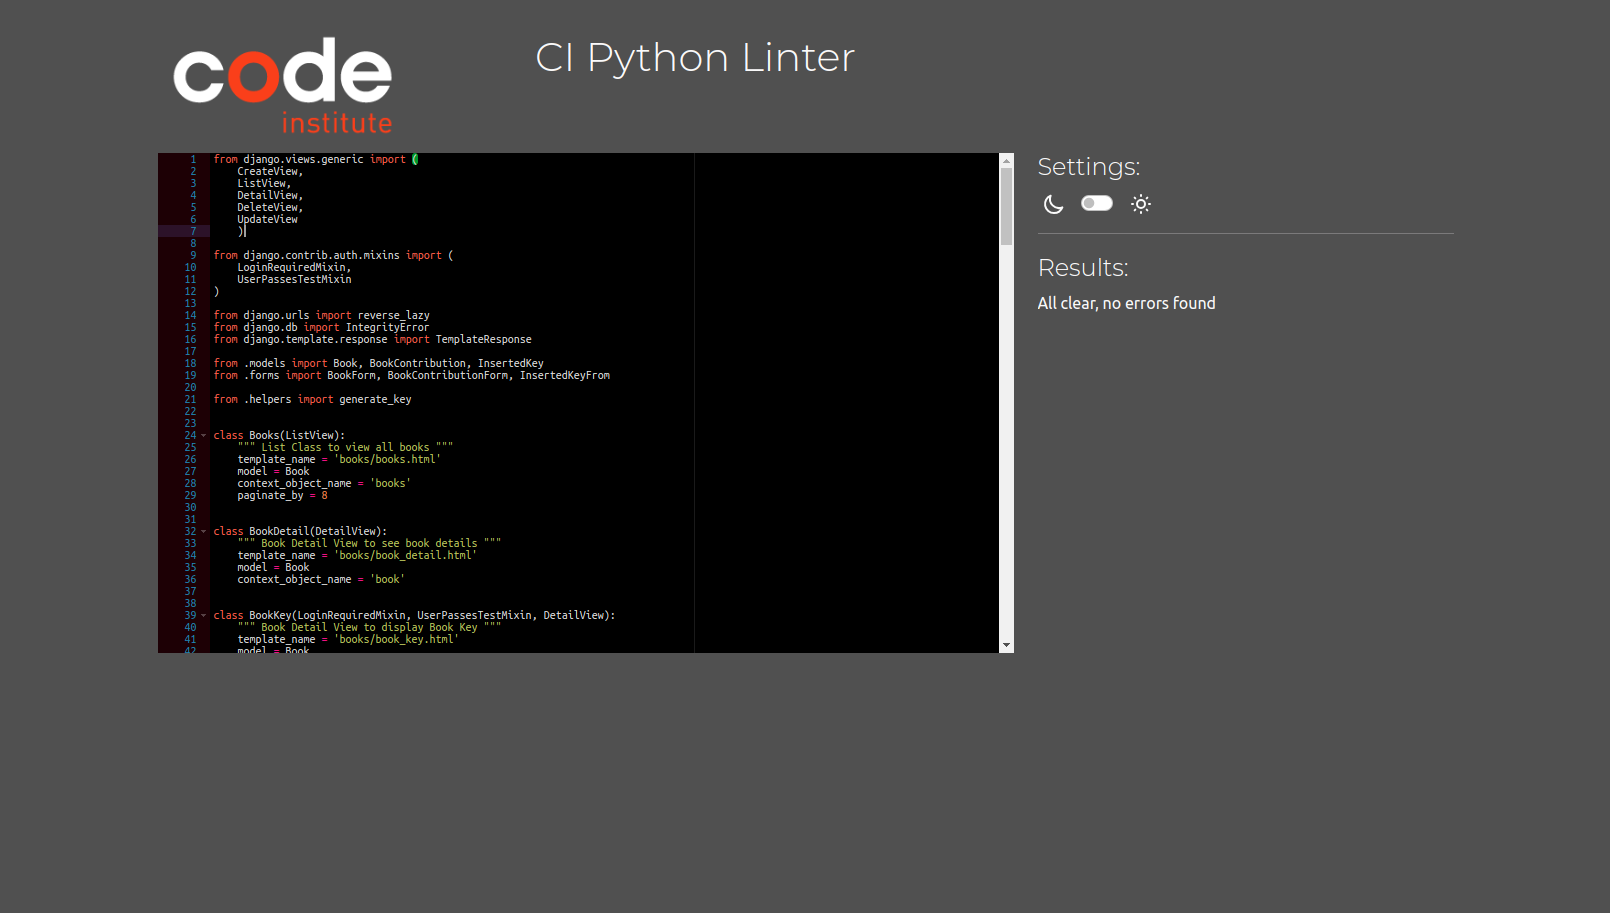
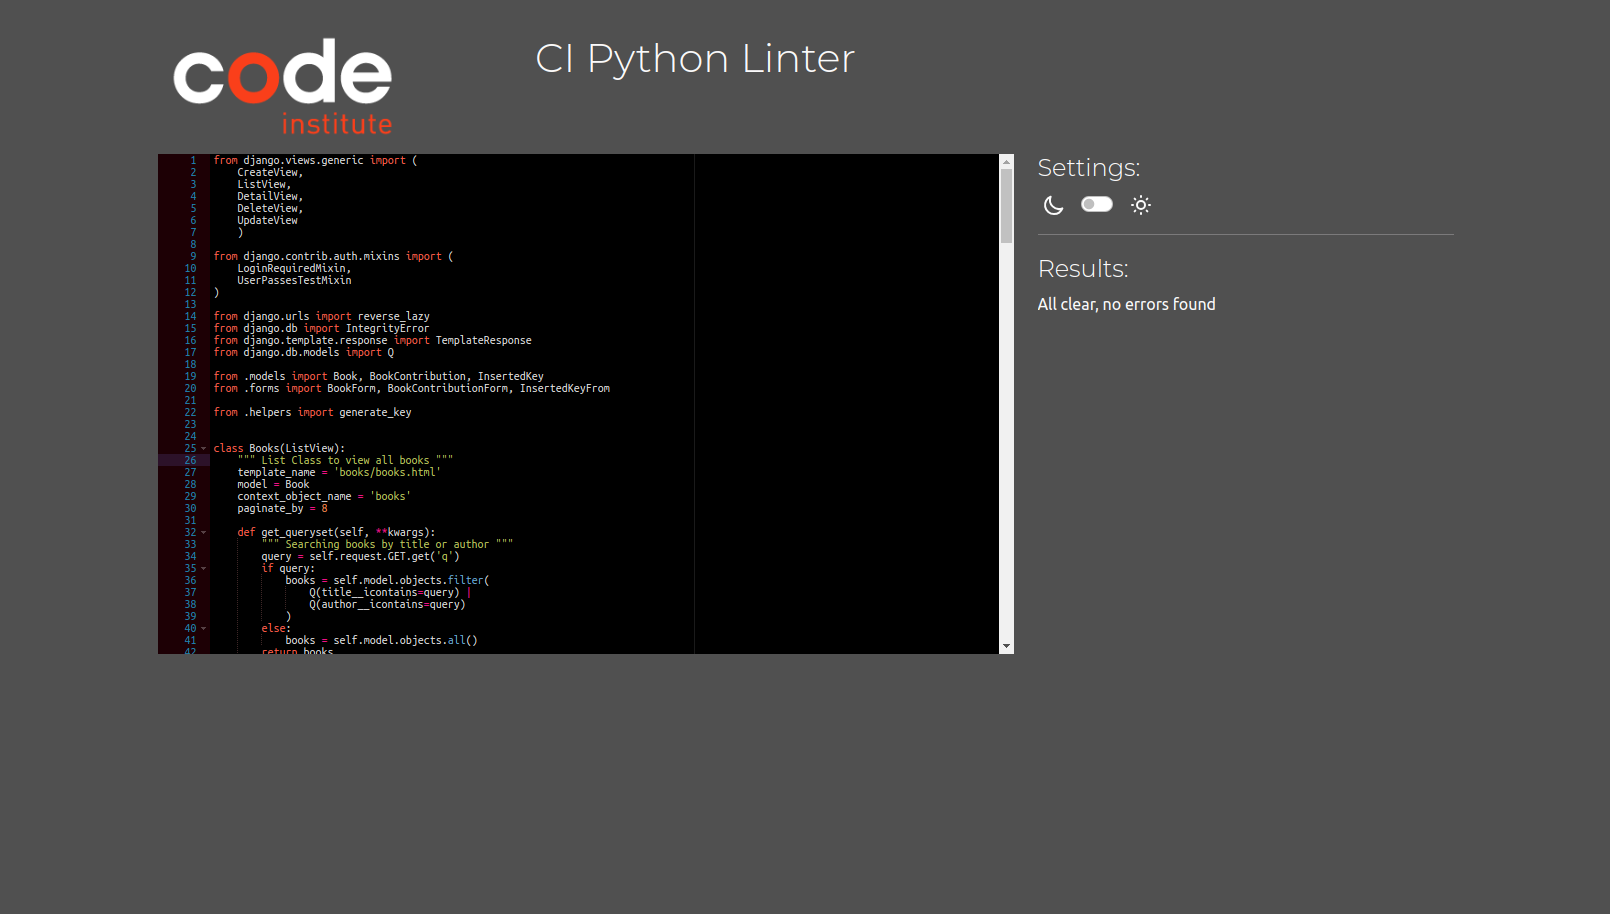
feat: implement a search field in Books Page and validate the code with pep8ci

diff --git a/books/templates/books/books.html b/books/templates/books/books.html
@@ -6,6 +6,22 @@
 {% block content %}
 
 <h1 class="text-center p-5">Books</h1>
+<div class="search__container">
+    <!-- search recipes form -->
+    <form class="d-flex flex-column flex-sm-row align-items-center gap-2" role="search" action="{% url 'books' %}" method="GET">
+        <div class="d-flex flex-column flex-sm-row align-items-center gap-2">
+            <label for="search-input">Search</label>
+            <input class="search__input" type="Search" id="search-input" name="q" aria-label="Search by author or title" placeholder="Books by Title or Author">
+
+        </div>
+        <button class="btn book__button hero__button--primary" type="submit">
+            <i class="fa-solid fa-magnifying-glass"> </i>
+            Search
+        </button>
+    </form>
+    <span class="search-chef"></span>
+</div>
+
 <div class="books-container">
     {% for book in books %}
     {% if request.user.is_authenticated %}

diff --git a/static/css/base.css b/static/css/base.css
@@ -49,6 +49,7 @@ body{
 
 h1, h2, h3, h4 {
     font-family: var(--title-font);
+    margin: 0;
 }
 
 main{
@@ -348,6 +349,18 @@ a.nav-link.active{
 /* end */
 
 /* ++++++++++++++ Books List ++++++++++++++ */
+.search__container{
+    background-color: var(--primary-color-light);
+    margin-bottom: 10px;
+    border-radius: var(--border-radius);
+    padding: 10px;
+}
+
+.search__input{
+    padding: 5px;
+    border-radius: var(--border-radius);
+}
+
 .books-container{
     max-width: 1200px;
     display: flex;
@@ -616,6 +629,10 @@ div.card-body{
     .about__list{
         grid-template-columns: 1fr 1fr; 
         margin-bottom: 20px;
+    }
+    /* ++++++++++++++ Books ++++++++++++++ */
+    .search__container{
+        margin-bottom: 0px;
     }
 
     .books-container{

diff --git a/templates/base.html b/templates/base.html
@@ -14,7 +14,7 @@
     
     {% endblock %}
 
-    <link rel="shortcut icon" type="image/png" href="{% static 'favicon/favicon.ico' %}" />
+    <link rel="shortcut icon" type="image/png" href="{% static 'favicon/favicon.ico' %}">
 
 
     <!-- Javascript files -->

diff --git a/books/views.py b/books/views.py
@@ -14,6 +14,7 @@ from django.contrib.auth.mixins import (
 from django.urls import reverse_lazy
 from django.db import IntegrityError
 from django.template.response import TemplateResponse
+from django.db.models import Q
 
 from .models import Book, BookContribution, InsertedKey
 from .forms import BookForm, BookContributionForm, InsertedKeyFrom
@@ -27,6 +28,18 @@ class Books(ListView):
     model = Book
     context_object_name = 'books'
     paginate_by = 8
+
+    def get_queryset(self, **kwargs):
+        """ Searching books by title or author """
+        query = self.request.GET.get('q')
+        if query:
+            books = self.model.objects.filter(
+                Q(title__icontains=query) |
+                Q(author__icontains=query)
+            )
+        else:
+            books = self.model.objects.all()
+        return books
 
 
 class BookDetail(DetailView):
